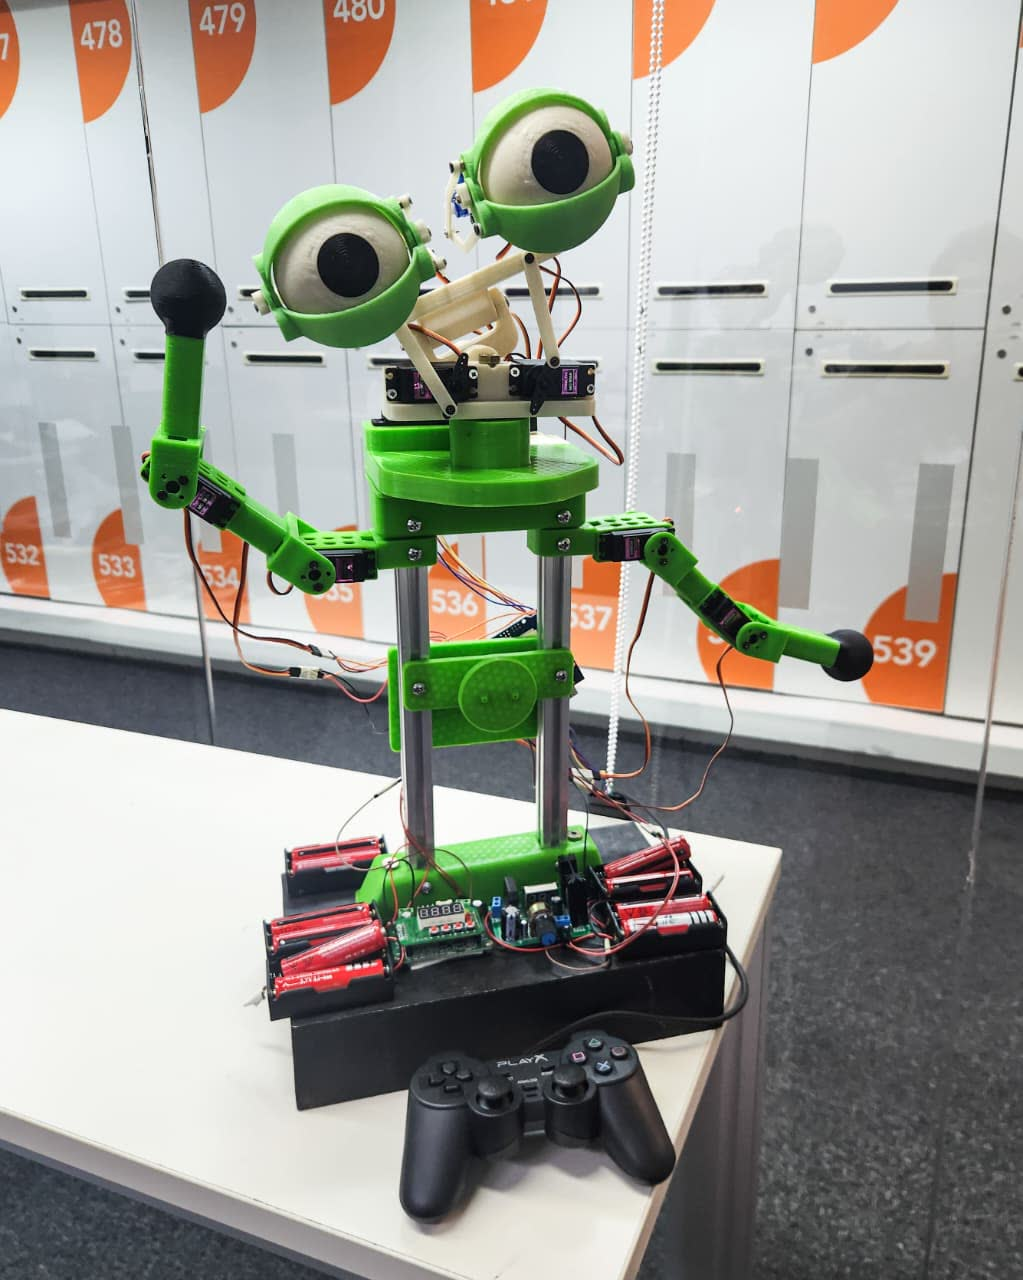
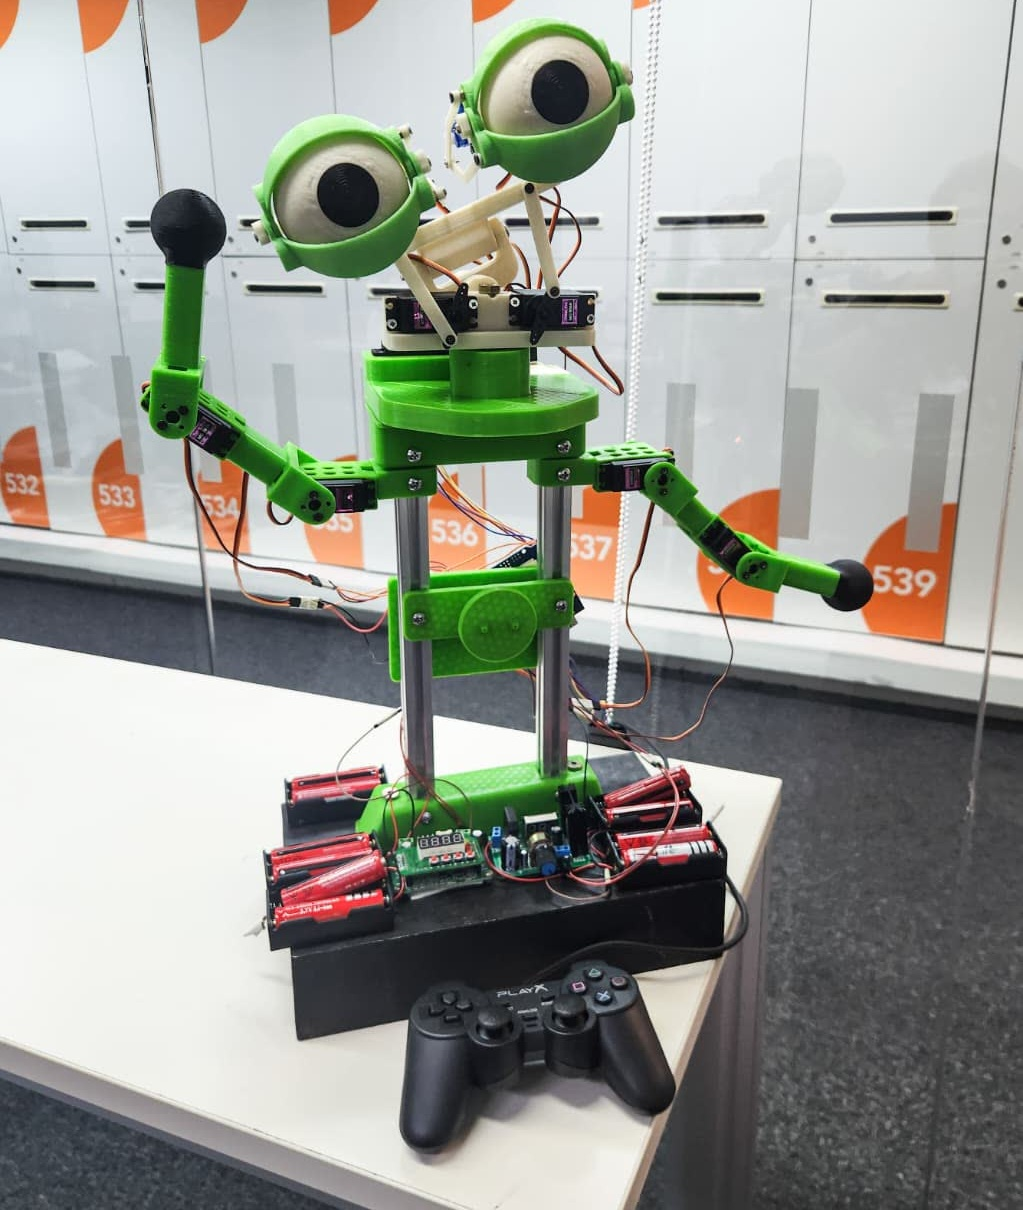
Update robotics project images and projects layout tweaks

diff --git a/docs/projects/index.html b/docs/projects/index.html
@@ -425,6 +425,8 @@
             
           
             
+          
+            
               
                 
                 
@@ -493,8 +495,6 @@
                   
                 
               
-            
-          
             
           
             
@@ -835,10 +835,29 @@
   .container.mt-5[role='main'] {
     max-width: 1280px;
   }
+
+  .robotics-group-card .carousel-inner {
+    height: 410px;
+  }
+
+  .robotics-group-card .carousel-item {
+    height: 100%;
+    aspect-ratio: auto;
+  }
+
+  .robotics-group-card .card-img-top {
+    height: 100%;
+    object-fit: cover;
+  }
+
+  .robotics-group-card .card-img-top[src*="hexapod1.jpg"] {
+    object-position: center 34%;
+  }
 }
 
 .robotics-group-card .carousel-item {
   position: relative;
+  aspect-ratio: 835 / 1043;
 }
 
 .robotics-group-card .carousel-inner {
@@ -848,14 +867,15 @@
 
 .robotics-group-card .card-img-top {
   width: 100%;
-  height: auto;
+  height: 100%;
   object-fit: contain;
   object-position: center;
+  background-color: #111;
 }
 
 .projects a[data-project-category="research"] .card-img-top,
 .projects a[data-project-category="research-reference-figures"] .card-img-top {
-  height: 120px;
+  height: 200px !important;
   object-fit: contain;
   object-position: center;
   background-color: #fff;
@@ -989,19 +1009,19 @@
     white-space: normal;
   }
 
-  .robotics-group-card .card-img-top {
-    height: 420px;
-    object-fit: cover;
-    object-position: center;
+  .projects a[data-project-category="research"] .card-img-top,
+  .projects a[data-project-category="research-reference-figures"] .card-img-top {
+    height: 240px !important;
   }
 
   .robotics-group-card .carousel-control-prev,
   .robotics-group-card .carousel-control-next {
     display: none;
   }
+
 }
 
-@media (min-width: 768px) and (max-width: 991.98px) {
+@media (min-width: 768px) and (max-width: 1199.98px) {
   .projects .category {
     text-align: left;
   }
@@ -1012,24 +1032,16 @@
     white-space: normal;
   }
 
-  .robotics-group-card .card-img-top {
-    height: 500px;
-    object-fit: cover;
-    object-position: center;
+  .projects a[data-project-category="research"] .card-img-top,
+  .projects a[data-project-category="research-reference-figures"] .card-img-top {
+    height: 430px !important;
   }
 
   .robotics-group-card .carousel-control-prev,
   .robotics-group-card .carousel-control-next {
     display: none;
   }
-}
 
-@media (min-width: 992px) {
-  .robotics-group-card .card-img-top {
-    height: 440px;
-    object-fit: cover;
-    object-position: center;
-  }
 }
 
 .research-image-modal__image {
@@ -1050,6 +1062,13 @@
 
   .research-image-modal__footer {
     gap: 0.42rem;
+  }
+}
+
+@media (min-width: 1200px) {
+  .projects a[data-project-category="research"] .card-img-top,
+  .projects a[data-project-category="research-reference-figures"] .card-img-top {
+    height: 220px !important;
   }
 }
 
@@ -1625,6 +1644,11 @@
     function setCarouselHeight(carousel, img) {
       var inner = carousel.querySelector(".carousel-inner");
       if (!inner) return;
+
+      if (window.innerWidth >= 1200) {
+        inner.style.removeProperty("height");
+        return;
+      }
 
       var targetImg = img || carousel.querySelector(".carousel-item.active img");
       if (!targetImg) return;

diff --git a/projects/index.html b/projects/index.html
@@ -835,10 +835,29 @@
   .container.mt-5[role='main'] {
     max-width: 1280px;
   }
+
+  .robotics-group-card .carousel-inner {
+    height: 410px;
+  }
+
+  .robotics-group-card .carousel-item {
+    height: 100%;
+    aspect-ratio: auto;
+  }
+
+  .robotics-group-card .card-img-top {
+    height: 100%;
+    object-fit: cover;
+  }
+
+  .robotics-group-card .card-img-top[src*="hexapod1.jpg"] {
+    object-position: center 34%;
+  }
 }
 
 .robotics-group-card .carousel-item {
   position: relative;
+  aspect-ratio: 835 / 1043;
 }
 
 .robotics-group-card .carousel-inner {
@@ -848,14 +867,15 @@
 
 .robotics-group-card .card-img-top {
   width: 100%;
-  height: auto;
+  height: 100%;
   object-fit: contain;
   object-position: center;
+  background-color: #111;
 }
 
 .projects a[data-project-category="research"] .card-img-top,
 .projects a[data-project-category="research-reference-figures"] .card-img-top {
-  height: 120px;
+  height: 200px !important;
   object-fit: contain;
   object-position: center;
   background-color: #fff;
@@ -989,19 +1009,19 @@
     white-space: normal;
   }
 
-  .robotics-group-card .card-img-top {
-    height: 420px;
-    object-fit: cover;
-    object-position: center;
+  .projects a[data-project-category="research"] .card-img-top,
+  .projects a[data-project-category="research-reference-figures"] .card-img-top {
+    height: 240px !important;
   }
 
   .robotics-group-card .carousel-control-prev,
   .robotics-group-card .carousel-control-next {
     display: none;
   }
+
 }
 
-@media (min-width: 768px) and (max-width: 991.98px) {
+@media (min-width: 768px) and (max-width: 1199.98px) {
   .projects .category {
     text-align: left;
   }
@@ -1012,24 +1032,16 @@
     white-space: normal;
   }
 
-  .robotics-group-card .card-img-top {
-    height: 500px;
-    object-fit: cover;
-    object-position: center;
+  .projects a[data-project-category="research"] .card-img-top,
+  .projects a[data-project-category="research-reference-figures"] .card-img-top {
+    height: 430px !important;
   }
 
   .robotics-group-card .carousel-control-prev,
   .robotics-group-card .carousel-control-next {
     display: none;
   }
-}
 
-@media (min-width: 992px) {
-  .robotics-group-card .card-img-top {
-    height: 440px;
-    object-fit: cover;
-    object-position: center;
-  }
 }
 
 .research-image-modal__image {
@@ -1050,6 +1062,13 @@
 
   .research-image-modal__footer {
     gap: 0.42rem;
+  }
+}
+
+@media (min-width: 1200px) {
+  .projects a[data-project-category="research"] .card-img-top,
+  .projects a[data-project-category="research-reference-figures"] .card-img-top {
+    height: 220px !important;
   }
 }
 
@@ -1625,6 +1644,11 @@
     function setCarouselHeight(carousel, img) {
       var inner = carousel.querySelector(".carousel-inner");
       if (!inner) return;
+
+      if (window.innerWidth >= 1200) {
+        inner.style.removeProperty("height");
+        return;
+      }
 
       var targetImg = img || carousel.querySelector(".carousel-item.active img");
       if (!targetImg) return;

diff --git a/_pages/projects.md b/_pages/projects.md
@@ -14,10 +14,29 @@ _styles: |
     .container.mt-5[role='main'] {
       max-width: 1280px;
     }
+
+    .robotics-group-card .carousel-inner {
+      height: 410px;
+    }
+
+    .robotics-group-card .carousel-item {
+      height: 100%;
+      aspect-ratio: auto;
+    }
+
+    .robotics-group-card .card-img-top {
+      height: 100%;
+      object-fit: cover;
+    }
+
+    .robotics-group-card .card-img-top[src*="hexapod1.jpg"] {
+      object-position: center 34%;
+    }
   }
 
   .robotics-group-card .carousel-item {
     position: relative;
+    aspect-ratio: 835 / 1043;
   }
 
   .robotics-group-card .carousel-inner {
@@ -27,14 +46,15 @@ _styles: |
 
   .robotics-group-card .card-img-top {
     width: 100%;
-    height: auto;
+    height: 100%;
     object-fit: contain;
     object-position: center;
+    background-color: #111;
   }
 
   .projects a[data-project-category="research"] .card-img-top,
   .projects a[data-project-category="research-reference-figures"] .card-img-top {
-    height: 120px;
+    height: 200px !important;
     object-fit: contain;
     object-position: center;
     background-color: #fff;
@@ -168,19 +188,19 @@ _styles: |
       white-space: normal;
     }
 
-    .robotics-group-card .card-img-top {
-      height: 420px;
-      object-fit: cover;
-      object-position: center;
+    .projects a[data-project-category="research"] .card-img-top,
+    .projects a[data-project-category="research-reference-figures"] .card-img-top {
+      height: 240px !important;
     }
 
     .robotics-group-card .carousel-control-prev,
     .robotics-group-card .carousel-control-next {
       display: none;
     }
+
   }
 
-  @media (min-width: 768px) and (max-width: 991.98px) {
+  @media (min-width: 768px) and (max-width: 1199.98px) {
     .projects .category {
       text-align: left;
     }
@@ -191,24 +211,16 @@ _styles: |
       white-space: normal;
     }
 
-    .robotics-group-card .card-img-top {
-      height: 500px;
-      object-fit: cover;
-      object-position: center;
+    .projects a[data-project-category="research"] .card-img-top,
+    .projects a[data-project-category="research-reference-figures"] .card-img-top {
+      height: 430px !important;
     }
 
     .robotics-group-card .carousel-control-prev,
     .robotics-group-card .carousel-control-next {
       display: none;
     }
-  }
 
-  @media (min-width: 992px) {
-    .robotics-group-card .card-img-top {
-      height: 440px;
-      object-fit: cover;
-      object-position: center;
-    }
   }
 
   .research-image-modal__image {
@@ -229,6 +241,13 @@ _styles: |
 
     .research-image-modal__footer {
       gap: 0.42rem;
+    }
+  }
+
+  @media (min-width: 1200px) {
+    .projects a[data-project-category="research"] .card-img-top,
+    .projects a[data-project-category="research-reference-figures"] .card-img-top {
+      height: 220px !important;
     }
   }
 ---
@@ -429,6 +448,11 @@ _styles: |
     function setCarouselHeight(carousel, img) {
       var inner = carousel.querySelector(".carousel-inner");
       if (!inner) return;
+
+      if (window.innerWidth >= 1200) {
+        inner.style.removeProperty("height");
+        return;
+      }
 
       var targetImg = img || carousel.querySelector(".carousel-item.active img");
       if (!targetImg) return;
